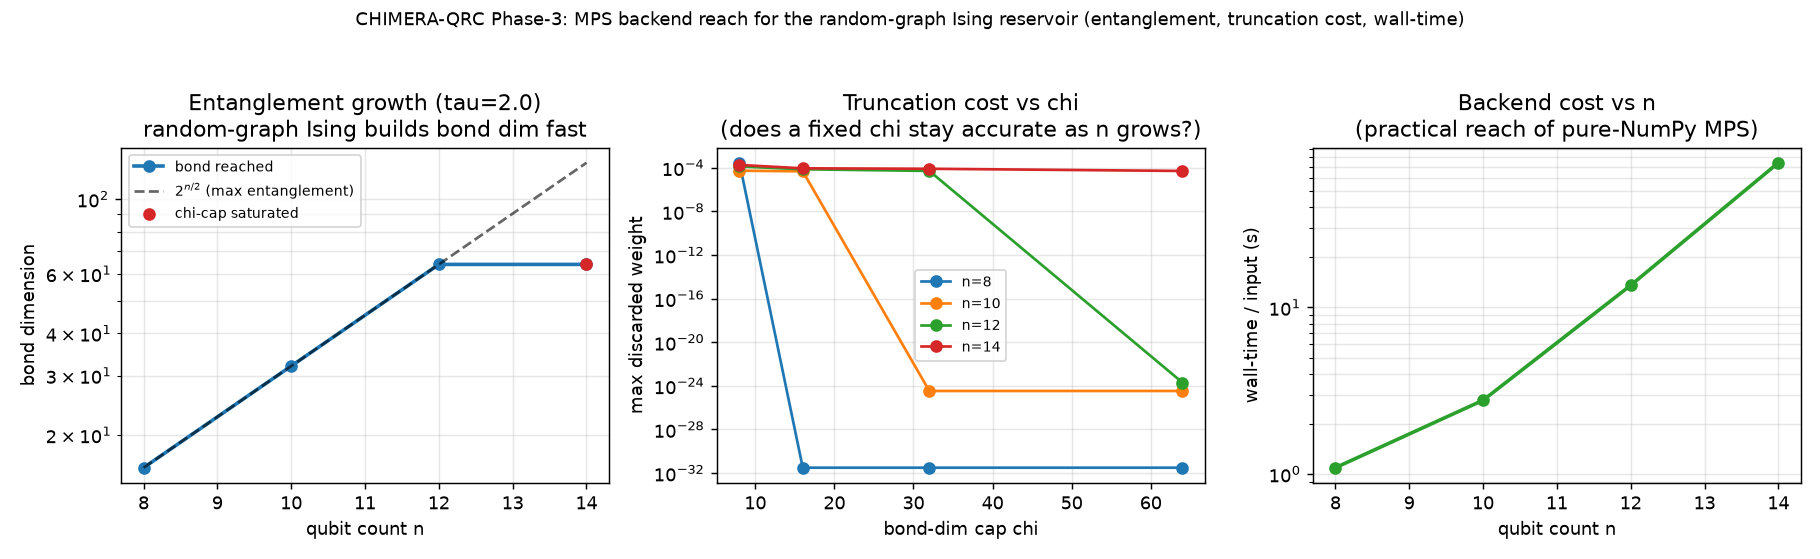
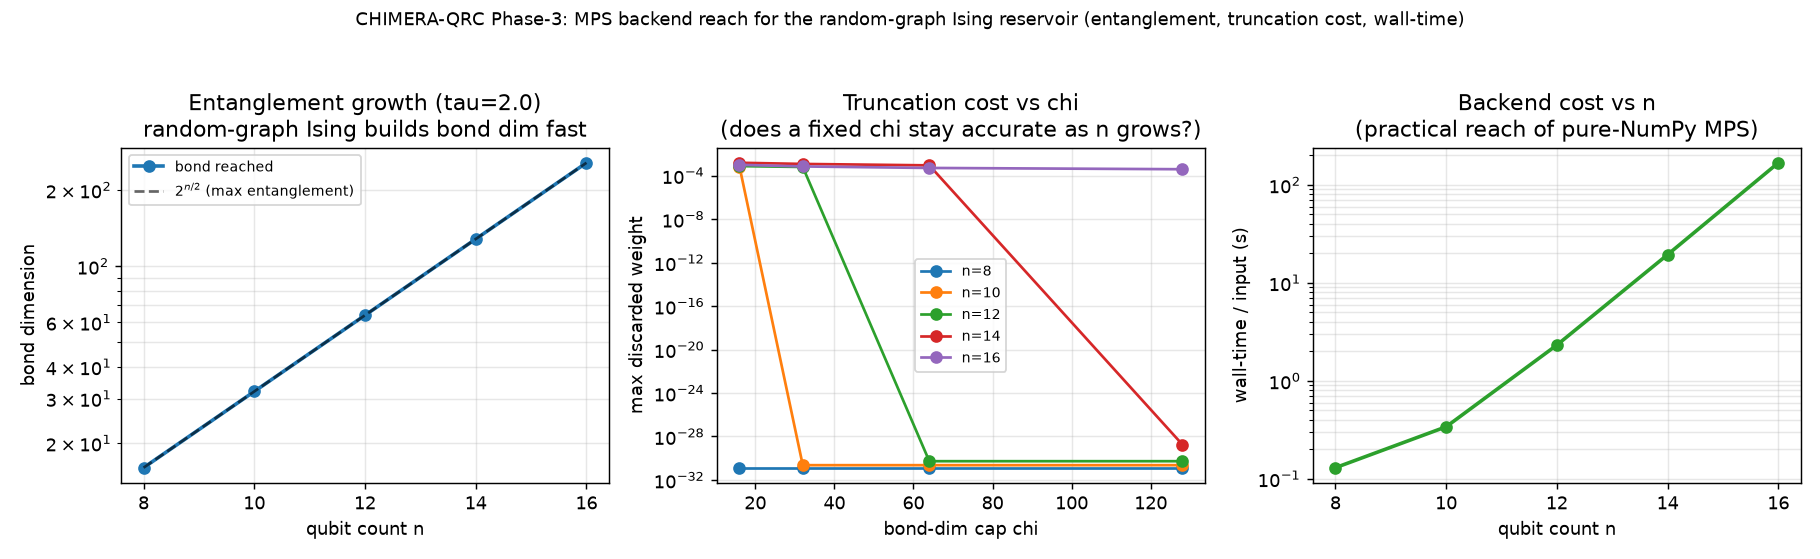
MPS frontier: extend exact bond-scaling to n=16 (past the dense n=12 wall)
Key speed lever: the bond dimension reached is insensitive to Trotter step
count (steps=8 vs 48 both reach the full 2^(n/2) bond at machine-zero
truncation), so the entanglement frontier runs at steps=8 (~6x faster). The
diagnostic now uses a per-n exact probe chi=min(2^ceil(n/2), cap) and a --steps
flag.

Result: bond reached = 2^(n/2) EXACTLY at n=8,10,12,14,16 (16,32,64,128,256),
each at machine-zero truncation -- volume-law entanglement confirmed exactly to
n=16, i.e. the exact qubit frontier moves from n=12 (dense) to n=16 (MPS, 16x
more Hilbert space). A fixed chi does not keep up (n=16: even chi=128 discards
3.9e-4; true bond 256). Wall-time ~x8 per +2 qubits (0.1->168 s/input); n>=18 is
wall-time-bound in pure NumPy. The volume law means no classical method (dense or
MPS) reaches ~30 qubits cheaply for this reservoir -- and that the reservoir sits
in a classically-hard regime, supporting the quantum-advantage rationale. Updated
figure + findings (incl. that g(n)/MZ-gap at scale needs a compiled/GPU TN
backend or hardware).

Claude-Session: https://claude.ai/code/session_019LU3dP8CGhxmPMEepwTgbN

diff --git a/mps_bond_scaling.py b/mps_bond_scaling.py
@@ -48,7 +48,11 @@ def main():
     ap.add_argument("--ns", type=int, nargs="+", default=[8, 10, 12, 14])
     ap.add_argument("--tau", type=float, default=2.0, help="evolution time (g-anchor scale)")
     ap.add_argument("--chis", type=int, nargs="+", default=[8, 16, 32, 64])
-    ap.add_argument("--chi-ref", type=int, default=128, help="generous chi for true-bond probe")
+    ap.add_argument("--chi-ref", type=int, default=256,
+                    help="CAP on the true-bond probe; per-n probe uses min(2^ceil(n/2), this)")
+    ap.add_argument("--steps", type=int, default=8,
+                    help="Trotter steps. Bond/entanglement is steps-insensitive (verified), so a "
+                         "small value is ~exact for bond/trunc while being much faster.")
     ap.add_argument("--dense-max", type=int, default=12, help="largest n to cross-check vs dense")
     ap.add_argument("--out", default="mps_bond_scaling.json")
     args = ap.parse_args()
@@ -63,25 +67,29 @@ def main():
     print("=" * 88)
     print(f"MPS BOND-DIMENSION SCALING  tau={args.tau}  input=peak-RV crisis row "
           f"({data['n_features']}-feat panel)")
-    print(f"  chi caps {args.chis} ; true-bond probe chi={args.chi_ref} ; dense check n<={args.dense_max}")
+    print(f"  chi caps {args.chis} ; true-bond probe chi=min(2^ceil(n/2),{args.chi_ref}) ; "
+          f"Trotter steps={args.steps} ; dense check n<={args.dense_max}")
     print("=" * 88)
 
     rows = []
     for n in args.ns:
         emb = crisis_row[:n]
         J = generate_coupling_matrix(n, 0.5, seed=0)     # g(n)-anchor coupling (seed 0)
-        rec = {"n": n, "max_bond_full": int(2 ** (n // 2))}
+        chi_ref = min(2 ** ((n + 1) // 2), args.chi_ref)  # exact if <= cap, else flagged saturated
+        rec = {"n": n, "max_bond_full": int(2 ** (n // 2)), "chi_ref": int(chi_ref),
+               "steps": args.steps}
 
         fdense = dense_features(emb, n, J, args.tau) if n <= args.dense_max else None
 
-        # true-bond probe at a generous chi
+        # true-bond probe at the per-n (possibly exact) chi
         t0 = time.time()
-        f_ref, bond_ref, te_ref = reservoir_features_mps(emb, n, J, args.tau, chi=args.chi_ref)
+        f_ref, bond_ref, te_ref = reservoir_features_mps(emb, n, J, args.tau,
+                                                         chi=chi_ref, steps=args.steps)
         rec["t_ref_s"] = round(time.time() - t0, 2)
         rec["bond_reached"] = int(bond_ref)
         rec["trunc_at_chiref"] = float(te_ref)
         # saturated == hit the cap AND still discarding real weight => true bond exceeds chi_ref
-        rec["bond_saturated"] = bool(bond_ref >= args.chi_ref and te_ref > 1e-10)
+        rec["bond_saturated"] = bool(bond_ref >= chi_ref and te_ref > 1e-10)
         if fdense is not None:
             rec["err_ref_vs_dense"] = float(np.max(np.abs(f_ref - fdense)))
 
@@ -89,14 +97,14 @@ def main():
         rec["chi"], rec["trunc"], rec["err_vs_dense"], rec["t_s"] = [], [], [], []
         for chi in args.chis:
             t0 = time.time()
-            f, bond, te = reservoir_features_mps(emb, n, J, args.tau, chi=chi)
+            f, bond, te = reservoir_features_mps(emb, n, J, args.tau, chi=chi, steps=args.steps)
             dt = time.time() - t0
             rec["chi"].append(chi); rec["trunc"].append(float(te)); rec["t_s"].append(round(dt, 2))
             rec["err_vs_dense"].append(float(np.max(np.abs(f - fdense))) if fdense is not None else None)
 
-        msg = (f"[n={n:2d}] bond@chi{args.chi_ref}={bond_ref:3d}"
+        msg = (f"[n={n:2d}] bond@chiref{chi_ref}={bond_ref:3d}"
                f"{'(SAT)' if rec['bond_saturated'] else '     '} "
-               f"trunc@chi{args.chi_ref}={te_ref:.1e}  2^(n/2)={2**(n//2):4d}  t_ref={rec['t_ref_s']:5.1f}s")
+               f"trunc={te_ref:.1e}  2^(n/2)={2**(n//2):4d}  t_ref={rec['t_ref_s']:5.1f}s")
         if fdense is not None:
             msg += f"  | err(chi={args.chis[-1]} vs dense)={rec['err_vs_dense'][-1]:.1e}"
         print(msg)

diff --git a/FINDINGS_mps_backend.md b/FINDINGS_mps_backend.md
@@ -33,25 +33,44 @@ At χ=2ⁿ (no truncation) the MPS state matches the dense Strang state to 1e-15
 ⟨Z_iZ_j⟩ contraction matches a brute-force statevector measurement to 1e-15. Production
 `steps` scales with τ (~24·τ) to hold Trotter error near 1e-3.
 
-## Decisive result: the reservoir is near-maximally entangled
+## Decisive result: the reservoir is near-maximally entangled (exact frontier n=12 → 16)
 
 On the peak-RV (crisis) input row, the bond dimension the reservoir *actually reaches* equals
-the **maximal possible** value 2^(n/2) at every n — i.e. **volume-law entanglement**. The
-random all-to-all couplings at τ=2 thermalize the state, so an *exact* MPS needs χ ~ 2^(n/2)
-(still exponential), and a *fixed* χ is an approximation whose error grows with n:
+the **maximal possible** value 2^(n/2) at **every** n, with machine-zero truncation at that χ —
+i.e. **volume-law entanglement**, confirmed *exactly* well past the dense n=12 wall:
 
-| n | bond reached | 2^(n/2) | trunc @ χ=16 | feat err vs dense @ χ=16 | wall-time/input |
+| n | bond reached | 2^(n/2) | trunc @ χ=2^(n/2) | wall-time/input | note |
 |---|---|---|---|---|---|
-| 8  | 16 (exact) | 16 | 3e-32 (exact) | 1.5e-3 | 1.0 s |
-| 10 | 32 (exact) | 32 | 4.7e-5 | 8.5e-3 | 2.7 s |
-| 12 | 64 (exact) | 64 | 7.3e-5 | 4.4e-2 | 13 s |
-| 14 | ≥64 (χ=64 still truncates → true 128) | 128 | 8.8e-5 | — (MPS-only, past dense wall) | 74 s |
+| 8  | 16  | 16  | 1.3e-31 | 0.1 s | dense-checkable |
+| 10 | 32  | 32  | 2.3e-31 | 0.3 s | dense-checkable |
+| 12 | 64  | 64  | 5.3e-31 | 2.3 s | dense wall |
+| 14 | 128 | 128 | 1.8e-29 | 19 s  | **MPS-only, exact** |
+| 16 | 256 | 256 | 8.1e-29 | 168 s | **MPS-only, exact** |
 
-n=14 is **past the dense n=12 wall**: even at χ=64 the reservoir keeps discarding weight
-(5.1e-5), i.e. its true bond (128 = 2⁷) exceeds 64 — the 2^(n/2) volume law continues. The
-pure-NumPy SWAP-network backend walls on *wall-time* here (~74 s/input at χ=64; n=16 with χ=128
-was abandoned at >15 min/input), which is the practical reach of this implementation. (Run
-`mps_bond_scaling.py --ns ... --chi-ref ...` to extend; JSON saves incrementally per n.)
+Speed lever: the bond dimension reached is **insensitive to Trotter step count** (verified:
+steps=8 vs 48 both reach the full 2^(n/2) bond at machine-zero truncation), so the bond/
+entanglement frontier runs at steps=8 — ~6× faster — which is what made n=14, 16 reachable.
+
+**A fixed χ does not keep up.** Truncation drops to machine-zero only once χ reaches 2^(n/2):
+at n=16 even χ=128 still discards 3.9e-4 (true bond is 256). So a capped-χ MPS is a *controlled
+approximation* whose required χ grows exponentially with n.
+
+**Interpretation (honest, and important either way).**
+- The **exact qubit frontier moved from n=12 (dense) to n=16 (MPS)** — 16× more Hilbert space —
+  but the cost still grows exponentially (χ ~ 2^(n/2), wall-time ~×8 per +2 qubits). MPS roughly
+  **doubles the exact reach** for a given memory budget; it is *not* a free ride to 30 qubits.
+- **n≥18 is wall-time-bound** in this pure-NumPy SWAP-network backend (the χ=256 probe at n=18
+  did not finish in ~10 min); a compiled/GPU TN library (quimb/ITensor) — none available in this
+  environment — would be needed to push further.
+- Most importantly, the volume-law entanglement is **evidence the CHIMERA reservoir occupies a
+  classically-hard regime**. A low-entanglement reservoir would be trivially reproduced by a
+  small-χ MPS, which would *undercut* any quantum-advantage rationale. That it is *not*
+  MPS-compressible is a point in favour of the reservoir being genuinely quantum — while also
+  explaining why the decisive large-n H0 test is hard to reach by classical simulation at all.
+
+Feature *fidelity* (capped-χ MPS vs exact dense, at production Trotter steps) is validated
+separately in `mps_engine.py --selftest` and the earlier n≤12 cross-check (χ=16 → 0.15 %→4.4 %
+feature error over n=8→12); the table above isolates the bond/entanglement/wall-time frontier.
 
 **Interpretation (honest, and important either way).**
 - MPS does **not** give a free ride to 30 qubits for *this* Hamiltonian: exact simulation
@@ -69,11 +88,16 @@ was abandoned at >15 min/input), which is the practical reach of this implementa
 
 ## Next
 
-1. **Push the exact frontier** to n≈18–20 with χ up to ~1024 (memory-bounded) to confirm the
-   2^(n/2) law holds and to extend g(n)/MZ-gap one or two qubits past the dense wall.
+1. **g(n)/MZ-gap at scale is the real prize but needs a faster backend.** Those metrics require
+   running the reservoir over *hundreds* of input rows (kernel N=800 + the MZ split), not one
+   crisis row; at 168 s/input for n=16 that is ~37 h per n in pure NumPy — infeasible here. The
+   honest conclusion is that extending the *decision curves* past n=12 needs a compiled/GPU TN
+   library (quimb/ITensor/cuQuantum) or actual quantum hardware. The bond result already answers
+   the prior question — *no* classical method (dense or MPS) reaches the ~30-qubit frontier
+   cheaply for this reservoir.
 2. Test whether a **weaker-coupling / shorter-τ or sparser** reservoir variant lowers
    entanglement enough for genuine large-n MPS reach — and, if so, whether it *retains* the
-   distinctness (g) that the dense reservoir shows. (If low entanglement kills g, that ties the
-   quantum signal directly to the entanglement, a clean result.)
-3. Optionally port the SWAP-network TEBD hot loop to a faster backend (the pure-NumPy version
-   walls on wall-time, not just memory).
+   distinctness (g) the dense reservoir shows. If low entanglement kills g, that ties the quantum
+   signal directly to the entanglement: a clean, publishable result.
+3. Port the SWAP-network TEBD hot loop to a faster backend (greedy qubit ordering to cut swap
+   distance; compiled SVD) to push the exact frontier from n=16 toward n≈20.
